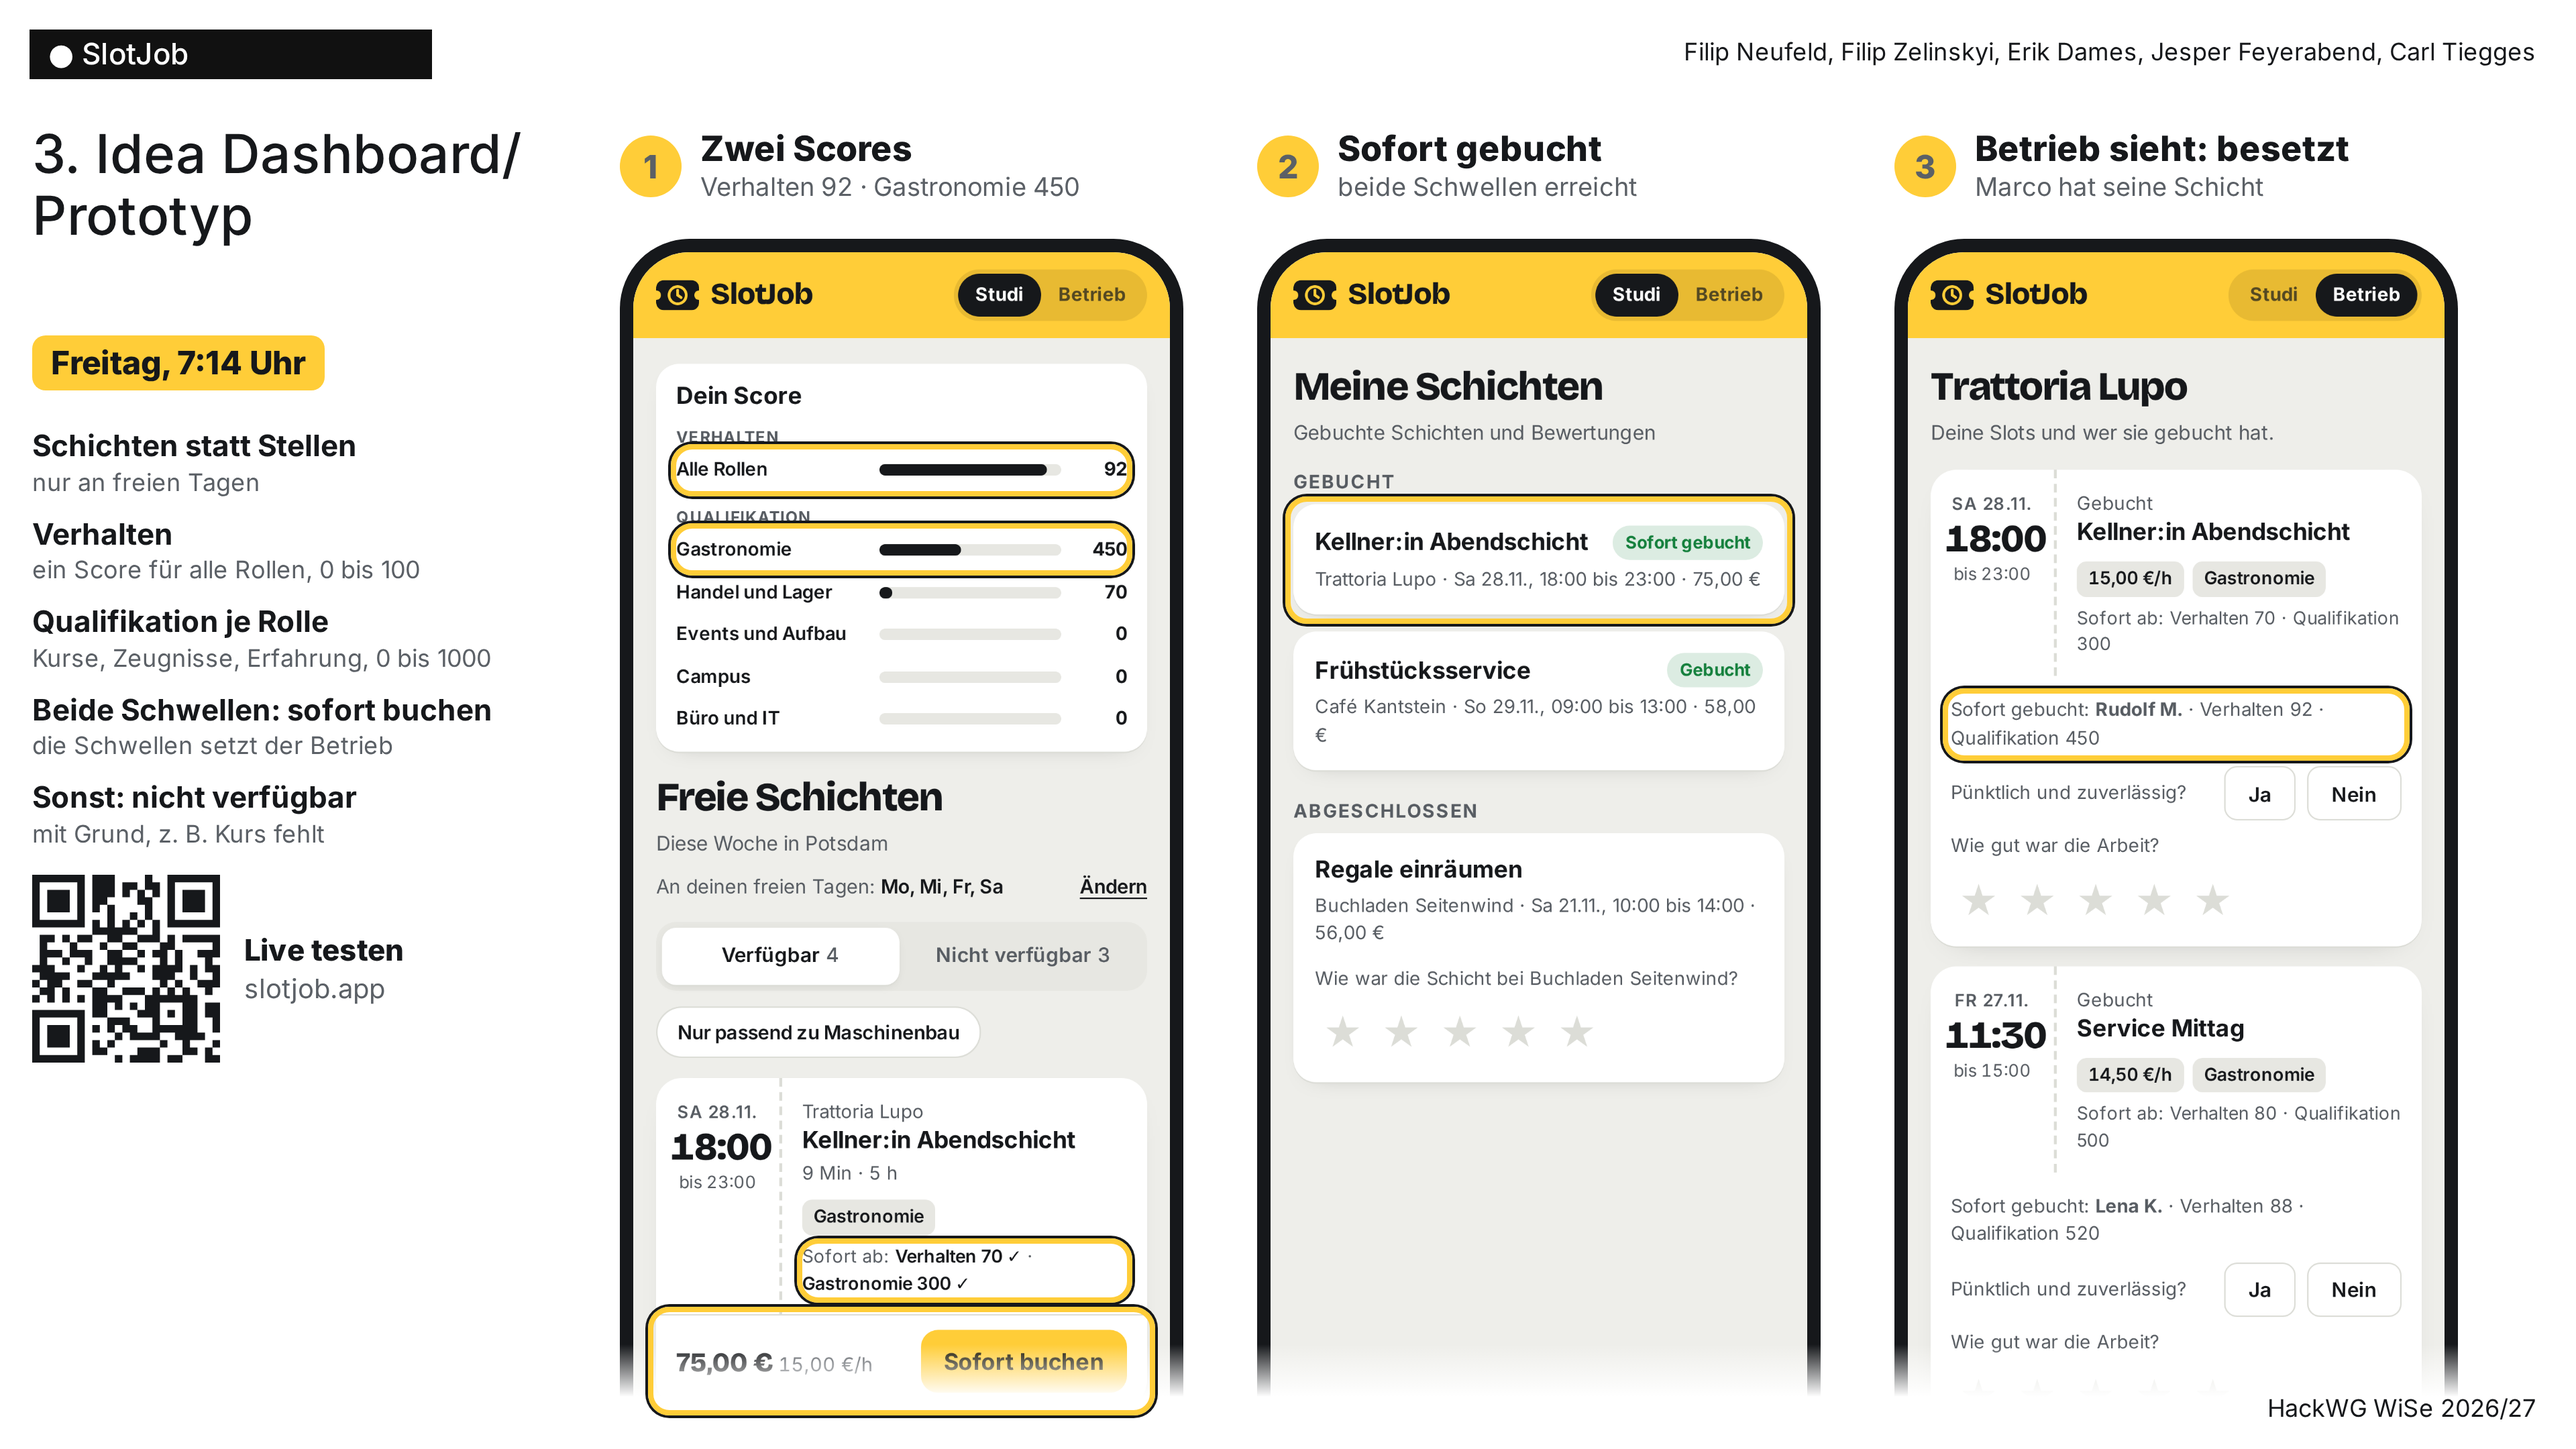
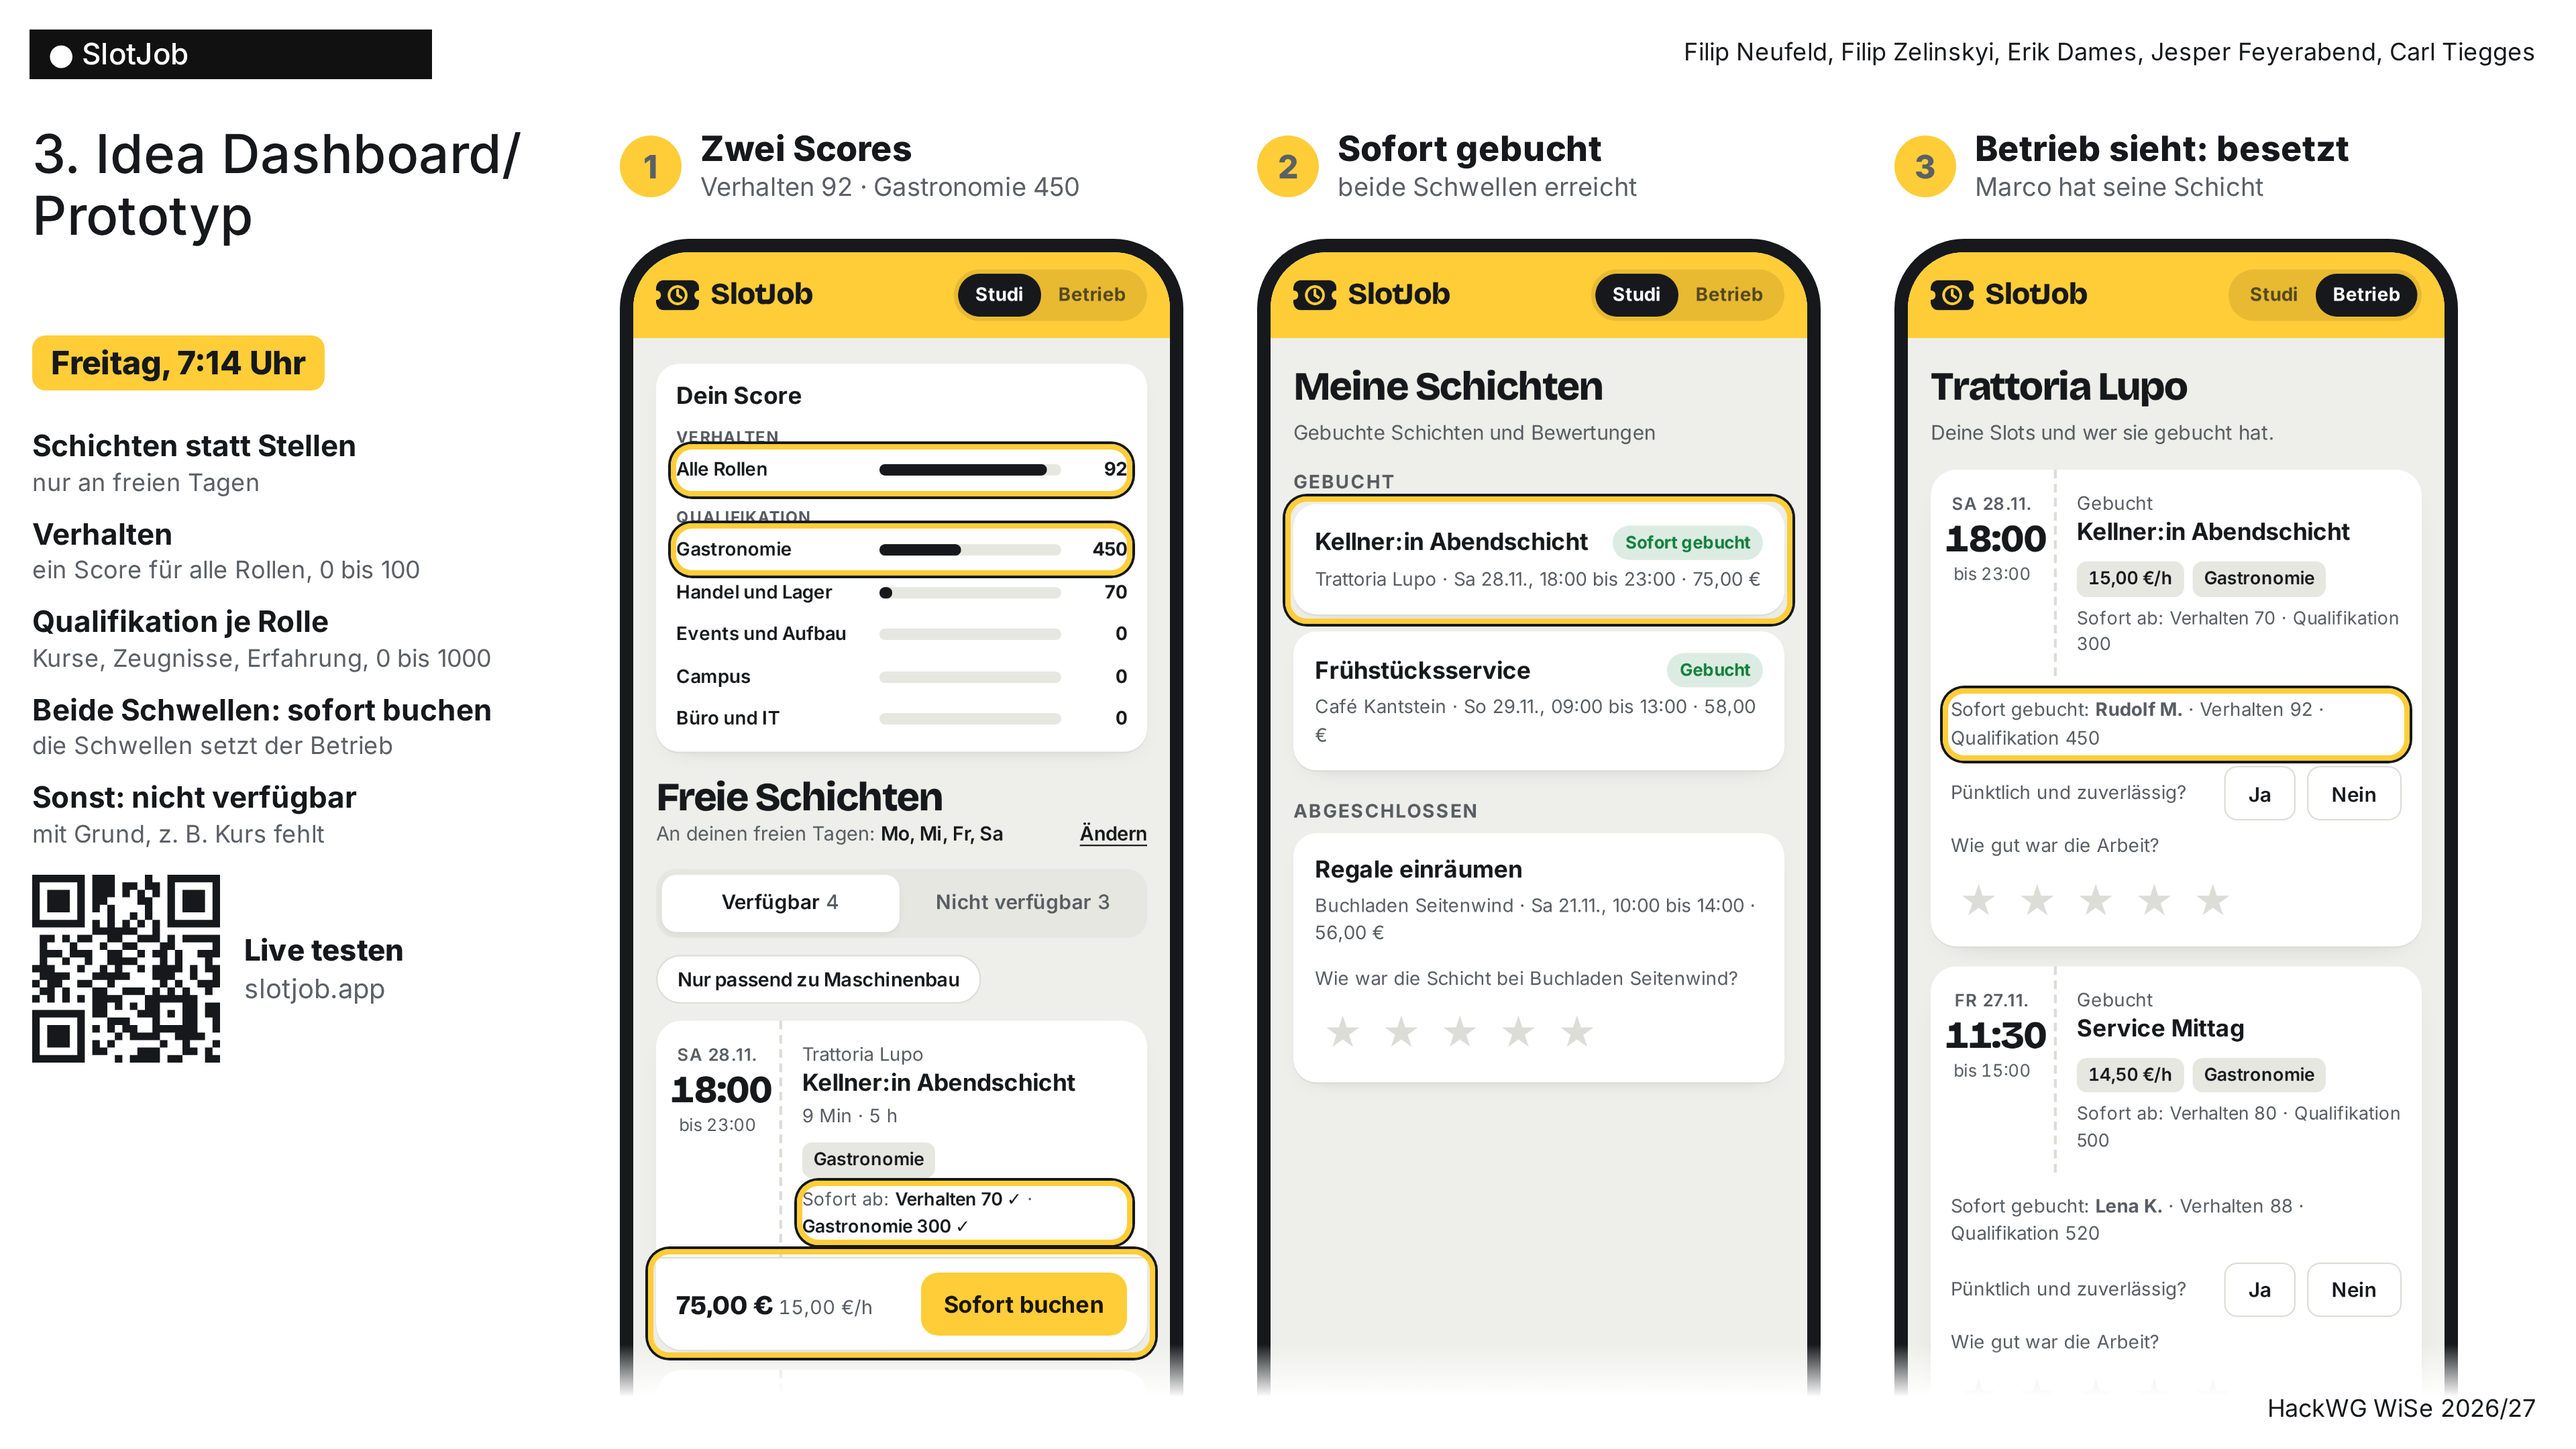
Slot list: study filter chip under the filters, the subtitle above it removed; slide 3 updated
Claude-Session: https://claude.ai/code/session_01TtYjNNzjFNGfjoyzmP8vJg

Changed region(s): [[0.25, 0.5583, 0.4688, 0.9926]]

diff --git a/site/index.html b/site/index.html
@@ -166,7 +166,7 @@ input[type=file]{font-size:13px;max-width:100%}
 .yn .small{flex:1}
 .yn button{border:1px solid var(--line);background:var(--card);color:var(--ink);border-radius:9px;padding:6px 16px;font:600 14px var(--text);min-height:38px}
 .yn button.on{background:var(--ink);border-color:var(--ink);color:#fff}
-.chip{display:inline-flex;align-items:center;gap:6px;border:1px solid var(--line);background:var(--card);color:var(--ink);border-radius:99px;padding:6px 14px;font:600 13.5px var(--text);min-height:36px;margin:-6px 0 14px}
+.chip{display:inline-flex;align-items:center;gap:6px;border:1px solid var(--line);background:var(--card);color:var(--ink);border-radius:99px;padding:6px 14px;font:600 13.5px var(--text);min-height:34px;margin:-6px 0 12px}
 .chip.on{background:var(--ink);border-color:var(--ink);color:#fff}
 .toast{position:absolute;left:16px;right:16px;bottom:80px;background:var(--ink);color:var(--card);border-radius:14px;padding:12px 14px;font-size:14px;font-weight:500;opacity:0;transform:translateY(10px);transition:.22s ease;pointer-events:none;z-index:5;display:flex;gap:10px;align-items:center}
 .toast.show{opacity:1;transform:none}
@@ -365,7 +365,7 @@ function slotsView(){
   const list=base.filter(cur[2]);
   const f=([k,l,fn])=>`<button class="f ${cur[0]===k?'on':''}" data-act="filter" data-v="${k}" aria-pressed="${cur[0]===k}">${l}<span class="n">${base.filter(fn).length}</span></button>`;
   const days=DAYS.filter(d=>S.avail.includes(d));
-  return `${scoreCard()}<h2>Freie Schichten</h2><p class="sub">Diese Woche in Potsdam</p>
+  return `${scoreCard()}<h2>Freie Schichten</h2>
    <div class="myday"><span>${days.length?`An deinen freien Tagen: <b>${days.join(', ')}</b>`:'Du hast noch keine freien Tage gewählt.'}</span><button class="link" data-act="availgo">Ändern</button></div>
    <div class="filters" role="group" aria-label="Filter">${FILTERS.map(f).join('')}</div>
    ${S.field!=='Anderes'?`<button class="chip ${fieldOn?'on':''}" data-act="fieldf" aria-pressed="${fieldOn}">Nur passend zu ${esc(S.field)}</button>`:''}
